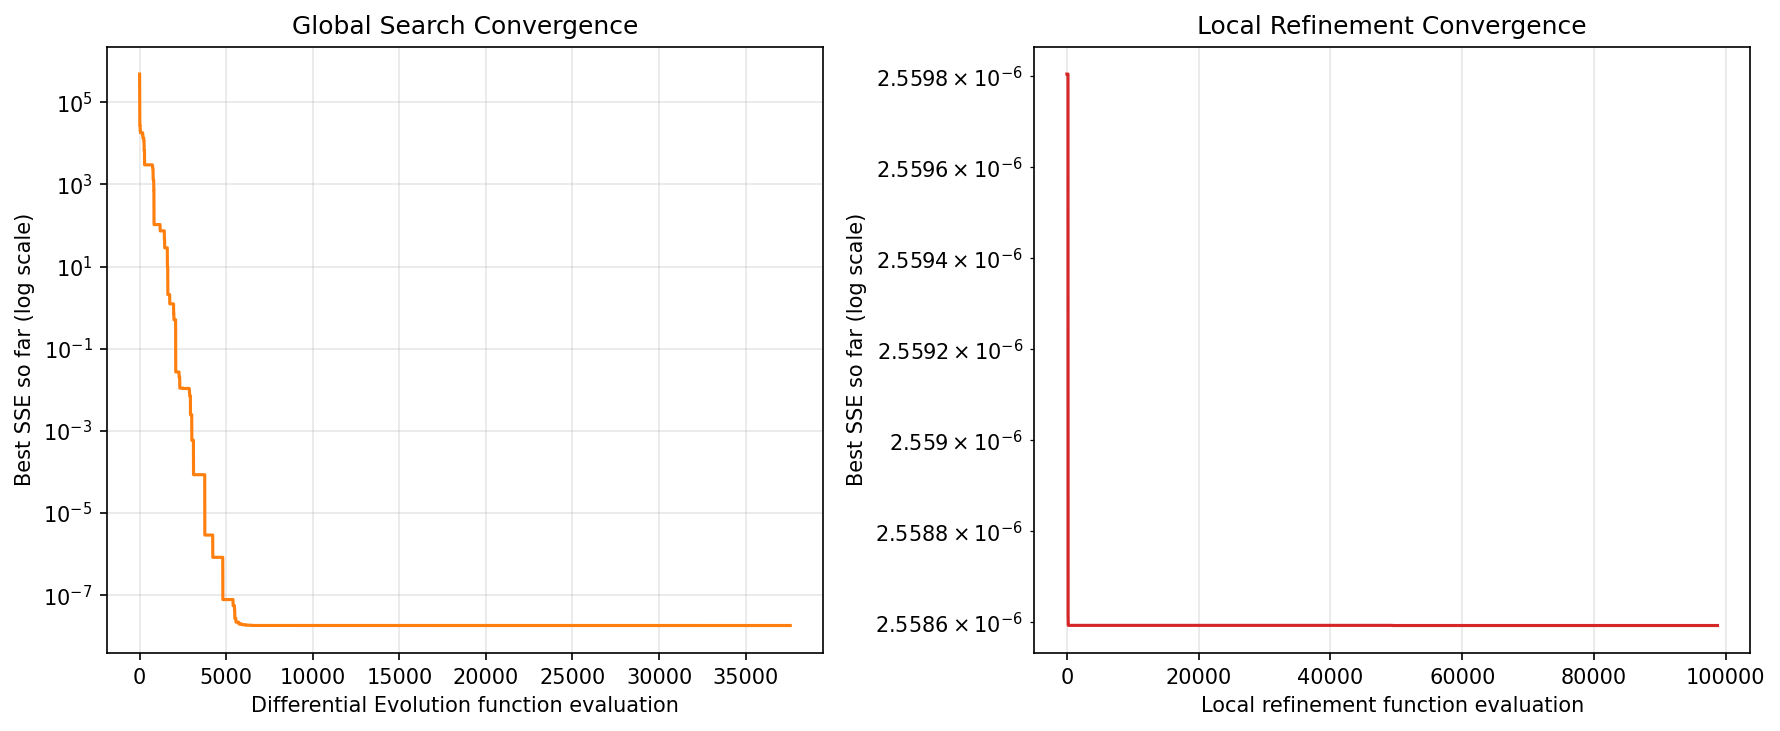
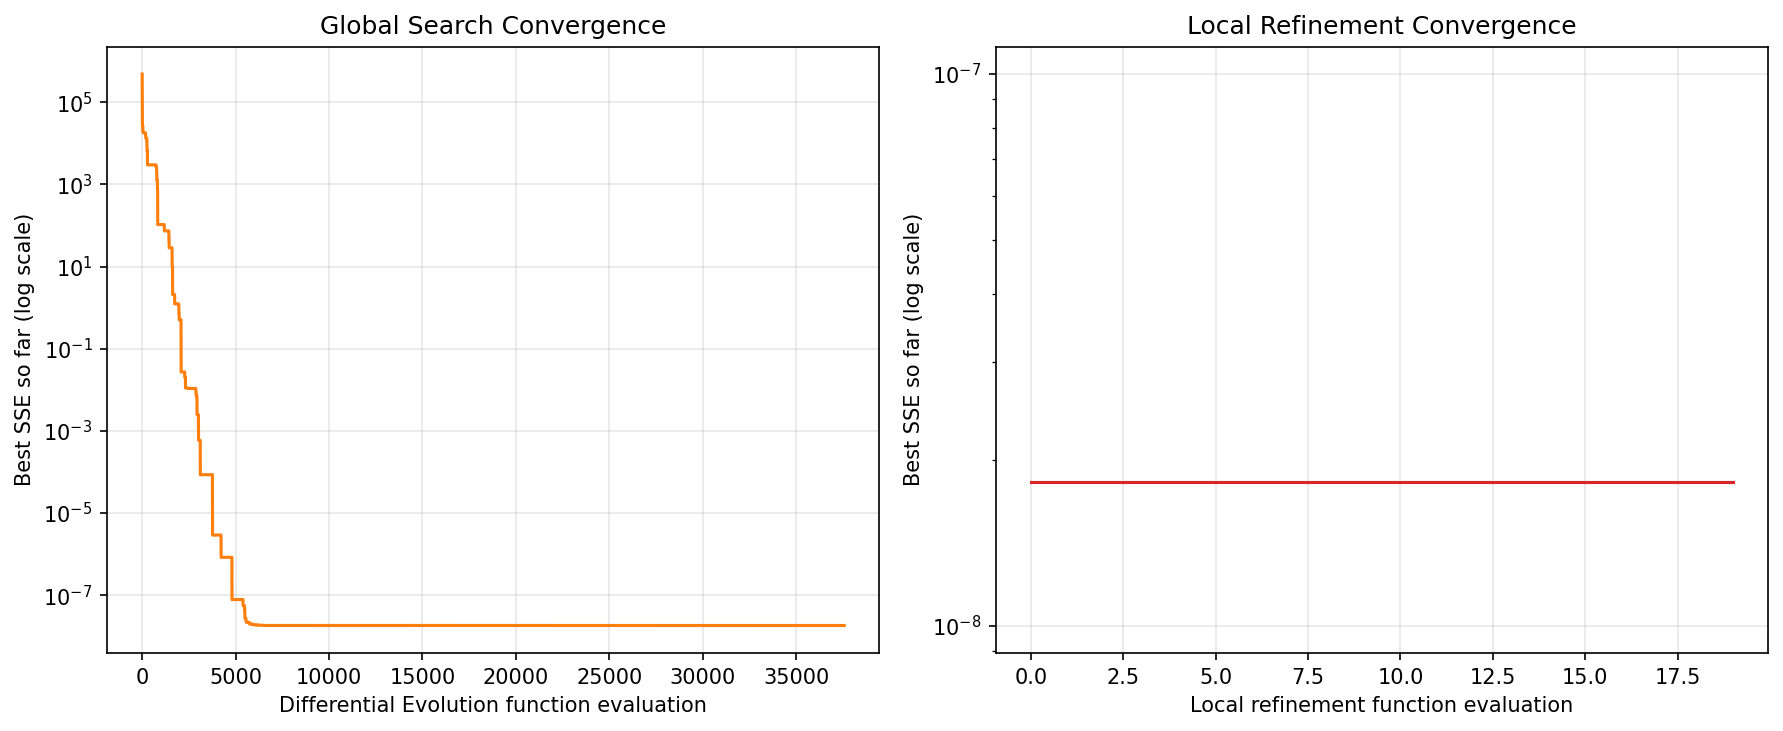
Add R2 score

diff --git a/src/optimize.py b/src/optimize.py
@@ -88,6 +88,7 @@ class FitResult:
     pct_within_1e5: float = 0.0
     pct_within_5e6: float = 0.0
     l1_residual: float = 0.0
+    r2: float = 0.0
 
 
 
@@ -482,6 +483,12 @@ def run_full_pipeline(x: np.ndarray, y: np.ndarray, loss: str = "l2") -> FitResu
     pct_within_1e5 = float(np.mean(abs_errors <= 1e-5) * 100)
     pct_within_5e6 = float(np.mean(abs_errors <= 5e-6) * 100)
 
+    # Calculate R2 coefficient of determination in transverse coordinate v
+    _, v_obs = model.inverse_rotate(x, y, theta_hat, X_hat)
+    ss_res = np.sum(resid**2)
+    ss_tot = np.sum((v_obs - np.mean(v_obs))**2)
+    r2_val = float(1.0 - (ss_res / ss_tot))
+
     result = FitResult(
         theta=float(theta_hat),
         M=float(M_hat),
@@ -504,5 +511,6 @@ def run_full_pipeline(x: np.ndarray, y: np.ndarray, loss: str = "l2") -> FitResu
         pct_within_1e5=pct_within_1e5,
         pct_within_5e6=pct_within_5e6,
         l1_residual=l1_residual,
+        r2=r2_val,
     )
     return result

diff --git a/src/cli.py b/src/cli.py
@@ -89,6 +89,7 @@ def main() -> None:
     print(f"X       = {fit.X:.18f}")
     print(f"Final SSE cost        : {fit.cost * 2:.18e}")
     print(f"RMSE (closed-form)     : {fit.rmse:.18e}")
+    print(f"R-squared (R2 score)   : {fit.r2:.18f}")
     print(f"Max |residual|         : {fit.max_abs_residual:.18e}")
     print(f"Chamfer/KDTree RMSE    : {fit.chamfer_rmse_validation:.18e} (cross-check)")
     print(f"Std errors (theta,M,X) : [{fit.param_std_errors[0]:.10e} {fit.param_std_errors[1]:.10e} {fit.param_std_errors[2]:.10e}]")
@@ -113,6 +114,7 @@ def main() -> None:
         "X": fit.X,
         "sse_cost": fit.cost * 2,
         "rmse": fit.rmse,
+        "r2_score": fit.r2,
         "max_abs_residual": fit.max_abs_residual,
         "l1_residual": fit.l1_residual,
         "chamfer_rmse_validation": fit.chamfer_rmse_validation,

diff --git a/README.md b/README.md
@@ -63,6 +63,7 @@ This engine supports two selectable loss function modes to optimize the coordina
 | :--- | :--- | :--- |
 | **Sum of Squared Errors (SSE Cost)** | **`1.822997935665769980e-08`** | `7.675779333157624514e-03` |
 | **Root Mean Squared Error (RMSE)** | **`3.486161151052133154e-06`** | `3.487060777375689980e-06` |
+| **R-squared ($R^2$ Score)** | **`0.999999999997918332`** | `0.999999999997917222` |
 | **L1 Distance (MAE)** | `0.000002559805022788` | **`0.000002558593111053`** |
 | **Median Absolute Error** | `1.937512614014202939e-06` | `1.919784526016599102e-06` |
 | **95th Percentile Spatial Error** | `7.505878835327436664e-06` | `7.513516196722136273e-06` |